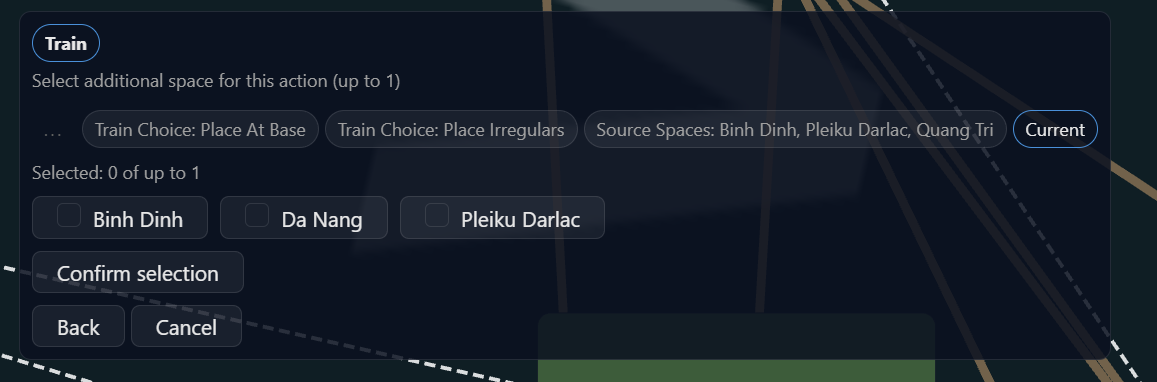
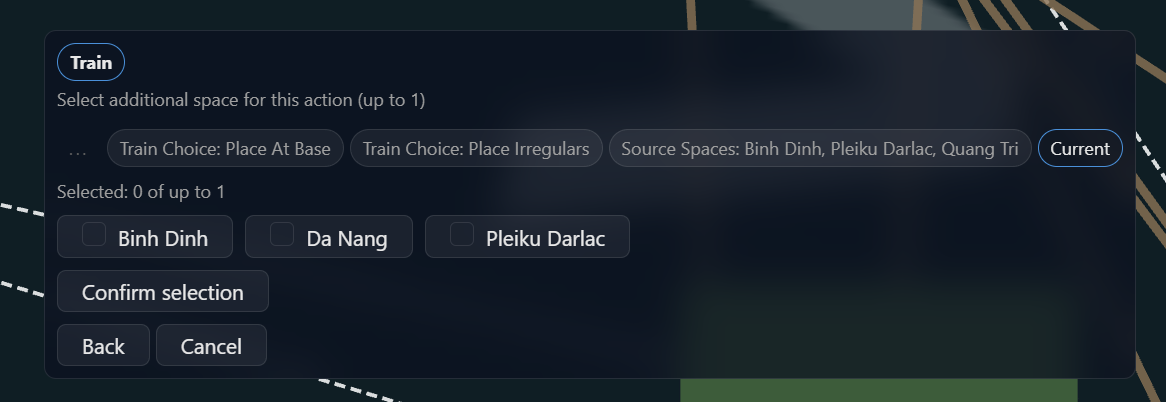
Made further improvements to UI.

diff --git a/packages/runner/src/model/derive-runner-frame.ts b/packages/runner/src/model/derive-runner-frame.ts
@@ -1216,6 +1216,15 @@ function deriveChoiceContext(
     iterationTotal = iterCtx.iterationTotal;
   }
 
+  // When the decision key has template resolution but no iteration path,
+  // derive the entity from the resolved bind for display purposes.
+  if (iterationEntityId === null) {
+    const parsedKey = parseDecisionKey(choicePending.decisionKey);
+    if (parsedKey !== null && parsedKey.baseId !== parsedKey.resolvedBind) {
+      iterationEntityId = parsedKey.resolvedBind;
+    }
+  }
+
   return {
     selectedActionId: selectedAction,
     decisionParamName: choicePending.name,
@@ -1244,7 +1253,17 @@ function deriveChoiceBreadcrumb(
   return context.choiceStack.map((step, index) => {
     const choiceStackUpToHere = context.choiceStack.slice(0, index + 1);
     const iterCtx = parseIterationContext(step.decisionKey, choiceStackUpToHere, zonesById);
-    const iterationGroupId = iterCtx !== null ? extractIterationGroupId(step.decisionKey) : null;
+    const iterationGroupId = extractIterationGroupId(step.decisionKey);
+
+    // When the decision key has template resolution (baseId !== resolvedBind)
+    // but no iteration path, derive the entity from the resolved bind.
+    let iterationEntityId = iterCtx?.currentEntityId ?? null;
+    if (iterationEntityId === null && iterationGroupId !== null) {
+      const parsedKey = parseDecisionKey(step.decisionKey);
+      if (parsedKey !== null && parsedKey.baseId !== parsedKey.resolvedBind) {
+        iterationEntityId = parsedKey.resolvedBind;
+      }
+    }
 
     return {
       decisionKey: step.decisionKey,
@@ -1252,7 +1271,7 @@ function deriveChoiceBreadcrumb(
       chosenValueId: serializeChoiceValueIdentity(step.value),
       chosenValue: step.value,
       iterationGroupId,
-      iterationEntityId: iterCtx?.currentEntityId ?? null,
+      iterationEntityId,
     };
   });
 }

diff --git a/packages/runner/src/ui/ChoicePanel.tsx b/packages/runner/src/ui/ChoicePanel.tsx
@@ -159,7 +159,7 @@ function MultiSelectMode({ choiceUi, addChooseNItem, removeChooseNItem, confirmC
         {choiceUi.options.map((option) => {
           const isSelected = selectedChoiceValueIdSet.has(option.choiceValueId);
           const isLegalScalar = option.legality !== 'illegal' && isChoiceScalar(option.value);
-          const isDisabled = !isLegalScalar;
+          const isDisabled = !isLegalScalar && !isSelected;
 
           const resCss = resolutionCssClass(option.resolution);
           const unselectedCss = !isSelected && selectedCount > 0 ? ` ${styles.optionUnselected}` : '';
@@ -178,18 +178,18 @@ function MultiSelectMode({ choiceUi, addChooseNItem, removeChooseNItem, confirmC
                 aria-label={resolutionAriaLabel(option.displayName, option.resolution)}
                 data-testid={`choice-multi-option-${option.choiceValueId}`}
                 onClick={() => {
-                  if (!isLegalScalar) {
+                  if (isSelected && isChoiceScalar(option.value)) {
+                    void removeChooseNItem(option.value);
                     return;
                   }
-                  if (isSelected) {
-                    void removeChooseNItem(option.value);
+                  if (!isLegalScalar) {
                     return;
                   }
                   void addChooseNItem(option.value);
                 }}
               >
-                <span className={styles.checkboxIndicator} aria-hidden="true">
-                  {isSelected ? 'x' : ''}
+                <span className={`${styles.checkboxIndicator}${isSelected ? ` ${styles.checkboxChecked}` : ''}`} aria-hidden="true">
+                  {isSelected ? '✓' : ''}
                 </span>
                 <span>{option.displayName}</span>
                 {indicator !== null ? (

diff --git a/packages/runner/src/ui/ChoicePanel.module.css b/packages/runner/src/ui/ChoicePanel.module.css
@@ -175,6 +175,13 @@
   font-size: var(--font-size-sm);
 }
 
+.checkboxChecked {
+  background: var(--accent);
+  border-color: var(--accent);
+  color: var(--text-primary);
+  font-weight: bold;
+}
+
 .optionProvisional {
   border-style: dashed;
   border-color: var(--text-muted);
@@ -199,7 +206,6 @@
   opacity: 0.4;
   cursor: default;
   border-style: dashed;
-  text-decoration: line-through;
 }
 
 .multiSelectConfirm {

diff --git a/reports/ui-readability-evaluation.md b/reports/ui-readability-evaluation.md
@@ -356,3 +356,79 @@ N/A (baseline evaluation)
 3. **[LOW] Investigate the dark rectangle overlay.** The semi-transparent dark rectangle overlapping the map canvas behind the choice panel persists across all four evaluations. Not blocking functionality but adds visual noise. Likely a z-index or background layer issue in the canvas/panel stacking.
 
 4. **[LOW] Consider adding a brief contextual subtitle on deeper decision screens.** Screenshots 4-5 prompt "Select source spaces for reinforcements" and "Select additional space for this action" — clear prompts, but a one-line subtitle like "Placing Irregular troops in Binh Dinh" would reinforce what the player is doing within the broader Train operation. This would complement the forEach iteration context fix in recommendation #1.
+
+---
+
+## EVALUATION #5
+
+**Date**: 2026-03-29
+**Screenshots analyzed**: fitl-train-1.png through fitl-train-5.png
+
+### Screenshot Analysis
+
+#### fitl-train-1.png — Initial Target Space Selection (Empty)
+**What's shown**: The Train choice panel at the start. Player must select target spaces for training. No spaces selected. Six zone checkbox buttons displayed in a single row.
+**Issues observed**:
+- Prompt reads "Select spaces to train in (1 to 6)" — human-readable, unchanged from Eval #4.
+- Counter reads "Selected: 0 of 1 to 6" — harmonized format, consistent with prompt.
+- No lone "Current" badge on the first screen — clean.
+- The dark semi-transparent rectangle overlay on the map canvas persists behind the panel — same artifact as Eval #1-4.
+- "Confirm selection" is correctly grayed out (nothing selected). "Back" is also grayed out — appropriate since this is the first decision.
+
+#### fitl-train-2.png — Target Space Selection (3 Selected)
+**What's shown**: Player has selected 3 spaces (Binh Dinh, Da Nang, Pleiku Darlac). Selected options show blue-tinted dashed borders with "x" marks and strikethrough text. Unselected options (Kontum, Quang Tri, Saigon) appear lighter.
+**Issues observed**:
+- Prompt dynamically updated to "Select spaces to train in (1 to 3)" — correct range constraint reflected.
+- Counter reads "Selected: 3 of 1 to 3" — harmonized format, consistent.
+- No misleading error messages under selected options — clean, same as Eval #3-4.
+- Selected options use strikethrough text with dashed blue borders and "x" marks — effective styling that clearly signals selection.
+- Unselected options are subtly lighter but still readable. The visual distinction could be stronger — a player scanning quickly might not immediately distinguish selected from unselected without noticing the "x" marks. The strikethrough text on selected items is counterintuitive: strikethrough typically signals "removed" or "cancelled", not "chosen". This could confuse players who interpret it as "these spaces are excluded".
+
+#### fitl-train-3.png — Train Sub-Choice (Place Irregulars vs Place At Base)
+**What's shown**: Binary choice between "Place Irregulars" and "Place At Base" after selecting target spaces.
+**Issues observed**:
+- Prompt reads "How do you want to train?" — natural, player-friendly language.
+- Breadcrumb reads "Target Spaces: Binh Dinh, Da Nang, Pleiku Darlac" with "Current" badge — clean and informative.
+- Both option buttons are well-labeled with clear action descriptions.
+- Panel is compact and well-organized. This screen remains fully resolved — the best in the sequence.
+
+#### fitl-train-4.png — Deep Nested Choice (Source Spaces in forEach)
+**What's shown**: Inside a forEach loop, player selects source spaces (up to 3) for reinforcements. Three zone options available.
+**Issues observed**:
+- Prompt reads "Select source spaces for reinforcements (up to 3)" — human-readable, unchanged from Eval #3-4.
+- Counter reads "Selected: 0 of up to 3" — harmonized format.
+- Breadcrumb shows "..." → "Train Choice: Place Irregulars" → "Train Choice: Place At Base" → "Train Choice: Place Irregulars" → "Current". The repeated "Train Choice" entries STILL lack forEach iteration context — the player cannot tell which target space (Binh Dinh, Da Nang, or Pleiku Darlac) is currently being processed, nor which iteration they're on (1/3, 2/3, 3/3). This has been the #1 remaining issue since Eval #3 — three evaluations and no change.
+- "Confirm selection" button is immediately active even with 0 selections, correctly reflecting the optional nature of the "(up to 3)" range.
+
+#### fitl-train-5.png — Deepest Nested Choice (Sub-Action Spaces)
+**What's shown**: Deepest nesting level. Player selects additional space for the current action (up to 1).
+**Issues observed**:
+- Prompt reads "Select additional space for this action (up to 1)" — fully human-readable, unchanged from Eval #3-4.
+- Counter reads "Selected: 0 of up to 1" — harmonized format.
+- Breadcrumb shows "..." → "Train Choice: Place At Base" → "Train Choice: Place Irregulars" → "Source Spaces: Binh Dinh, Pleiku Darlac, Quang Tri" → "Current". Clean, compact, no raw AST paths.
+- Zone options (Binh Dinh, Da Nang, Pleiku Darlac) are clean — no suffixes.
+- Same forEach iteration context gap as screenshot 4.
+
+### Scores
+
+| # | Metric | Score | Previous | Delta | Justification |
+|---|--------|-------|----------|-------|---------------|
+| 1 | Decision Prompt Clarity | 8 | 8 | 0 | All prompts remain human-readable across all 5 screens. No regressions, no changes from Eval #4. Prompts are clear and contextual. |
+| 2 | Option Legibility | 7 | 8 | -1 | Zone names and action names remain clean. However, the strikethrough styling on selected options (screenshot 2) is semantically misleading — strikethrough universally signals "removed" or "cancelled", not "selected". A player could interpret selected spaces as excluded. Downgrading by 1 to reflect this usability concern. |
+| 3 | Breadcrumb Navigability | 6 | 7 | -1 | The forEach iteration context issue has persisted for three consecutive evaluations (#3, #4, #5) without improvement. The repeated "Train Choice: Place Irregulars" / "Train Choice: Place At Base" entries are the primary source of disorientation at deeper nesting levels. Downgrading by 1 to reflect stagnation on the most prominent remaining issue. The "..." collapse and clean labels remain good. |
+| 4 | Error Communication | 7 | 7 | 0 | No misleading errors. Range communication is harmonized and consistent. No change from Eval #4. |
+| 5 | Information Density | 8 | 8 | 0 | No wasted space. Decision areas have adequate room. Harmonized counter format is clean. No change from Eval #4. |
+| 6 | Visual Hierarchy | 7 | 7 | 0 | Clean visual flow maintained. No raw text competing for attention. The strikethrough styling adds slight visual confusion but doesn't fundamentally break the hierarchy. |
+| | **Average** | **7.2** | **7.5** | **-0.3** | |
+
+### Prioritized Recommendations
+
+1. **[HIGH] Add forEach iteration context to breadcrumbs.** This has been the #1 remaining issue for three consecutive evaluations (#3, #4, #5). The repeated "Train Choice: Place Irregulars" / "Train Choice: Place At Base" breadcrumb entries in screenshots 4-5 give the player no information about which target space is being processed or which iteration they're on. Concrete fix: replace repeated "Train Choice" entries with labels like "Binh Dinh (1/3): Place Irregulars" or group iterations under a heading "Training 3 spaces — currently: Binh Dinh". Without this, a player deep in the decision tree has no spatial orientation.
+
+2. **[HIGH] Replace strikethrough styling on selected options with a positive selection indicator.** The strikethrough text on selected options in screenshot 2 (Binh Dinh, Da Nang, Pleiku Darlac) is semantically backward — strikethrough universally means "removed" or "cancelled", not "chosen". Replace with a filled checkbox, a checkmark icon, a solid blue background, or bold text. The dashed blue border and "x" mark are fine, but the strikethrough text contradicts the "selected" semantics.
+
+3. **[MEDIUM] Improve visual distinction for unselected/unavailable options.** In screenshot 2, unselected options (Kontum, Quang Tri, Saigon) are only subtly lighter. A stronger dimming, muted color, or small "unavailable" indicator would make the distinction immediate. Carried from Eval #3-4.
+
+4. **[LOW] Investigate the dark rectangle overlay.** The semi-transparent dark rectangle overlapping the map canvas behind the choice panel persists across all five evaluations. Not blocking functionality but adds visual noise. Likely a z-index or background layer issue.
+
+5. **[LOW] Consider a contextual subtitle on deeper decision screens.** A one-line subtitle on screenshots 4-5 like "Placing Irregular troops in Binh Dinh" would reinforce what the player is doing within the broader Train operation. Carried from Eval #4.
